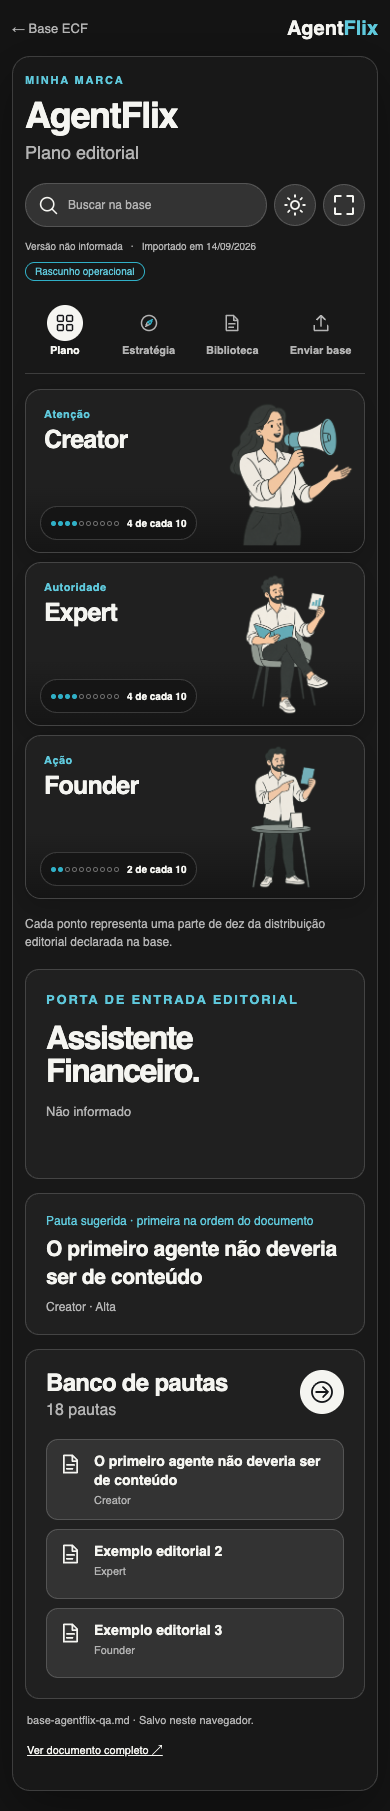
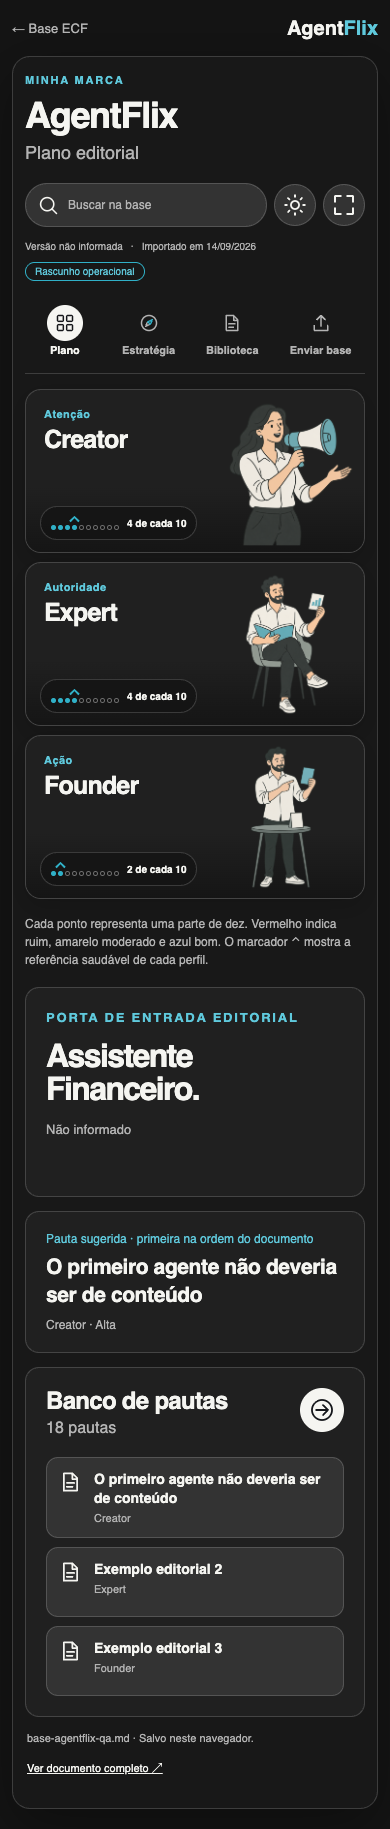
Sinaliza situação dos perfis editoriais

diff --git a/site/assistir/hermes-em-operacao/t1e2/minha-marca.js b/site/assistir/hermes-em-operacao/t1e2/minha-marca.js
@@ -56,6 +56,8 @@
   }
   const labels={plano:'Plano editorial',estrategia:'Estratégia',biblioteca:'Biblioteca'};
   const roles=[['Creator','Atenção','creator'],['Expert','Autoridade','expert'],['Founder','Ação','founder']];
+  const roleTargets={Creator:4,Expert:4,Founder:2};
+  const ratioStates={good:'bom',moderate:'moderado',bad:'ruim'};
   let model=null,raw='',selected=0,roleFilter='',libraryTab='pautas',filename='',importedAt='',uploadSequence=0;
   const view=()=>Object.hasOwn(labels,location.hash.slice(1))?location.hash.slice(1):'plano';
   const fallback=value=>value||'Não informado';
@@ -77,13 +79,16 @@
     const ratio=distribution?.ratio;
     const isRatio=typeof ratio==='number';
     const amount=isRatio?Math.round(ratio*10):null;
+    const target=roleTargets[name];
+    const state=!isRatio?'unknown':amount===target?'good':Math.abs(amount-target)===1?'moderate':'bad';
     const description=mode==='library'?topicCount(name)+' pautas':isRatio?amount+' de cada 10':'Não informado';
-    const bar=mode==='plan'&&isRatio?'<span class="bar" aria-hidden="true">'+Array.from({length:10},(_,i)=>'<i class="'+(i<Math.round(ratio*10)?'filled':'')+'"></i>').join('')+'</span>':'';
-    return '<button class="role-card" type="button" data-role="'+name+'" aria-label="'+name+': '+esc(mode==='plan'?(distribution?.label||'distribuição não informada'):description)+'. Ver pautas"><span class="role-copy"><span class="role-kicker">'+currency+'</span><h2>'+name+'</h2></span><span class="card-icon">'+art(symbol)+'</span><span class="card-tag">'+bar+'<strong>'+description+'</strong></span></button>';
+    const bar=mode==='plan'&&isRatio?'<span class="bar status-'+state+'" aria-hidden="true">'+Array.from({length:10},(_,i)=>'<i class="'+(i<amount?'filled':'')+'">'+(i===target-1?'<b class="ideal-marker">⌃</b>':'')+'</i>').join('')+'</span>':'';
+    const stateLabel=mode==='plan'&&isRatio?' Situação '+ratioStates[state]+'. Referência saudável: '+target+' de cada 10.':'';
+    return '<button class="role-card" type="button" data-role="'+name+'" aria-label="'+name+': '+esc(mode==='plan'?(distribution?.label||'distribuição não informada'):description)+stateLabel+' Ver pautas"><span class="role-copy"><span class="role-kicker">'+currency+'</span><h2>'+name+'</h2></span><span class="card-icon">'+art(symbol)+'</span><span class="card-tag">'+bar+'<strong>'+description+'</strong></span></button>';
   }).join('')+'</div>';}
   function plan(){
     const first=model.topics[0];
-    return roleCards('plan')+'<p class="hint">Cada ponto representa uma parte de dez da distribuição editorial declarada na base.</p><div class="content-grid"><div class="main-stack"><section class="surface entry"><div class="entry-copy"><p class="eyebrow">PORTA DE ENTRADA EDITORIAL</p><h2>'+esc(fallback(model.entry))+'</h2><p>'+esc(fallback(model.transformation))+'</p></div><span class="entry-visual">'+art('entry')+'</span></section><button class="surface suggestion" type="button" data-topic="'+first.id+'"><span>Pauta sugerida · primeira na ordem do documento</span><strong>'+esc(first.title)+'</strong><small>'+esc(first.role)+' · '+esc(fallback(first.priority))+'</small></button></div><section class="dark-panel bank-panel"><div class="bank-heading"><div><h2>Banco de pautas</h2><p>'+model.topics.length+' pautas</p></div><button class="round-action" data-library="pautas" aria-label="Abrir todas as pautas" type="button">'+icon('arrow')+'</button></div><div class="bank-topics">'+model.topics.slice(0,3).map(topic=>'<button class="paper-topic" type="button" data-topic="'+topic.id+'">'+icon('file')+'<span><strong>'+esc(topic.title)+'</strong><small>'+esc(topic.role)+'</small></span></button>').join('')+'</div></section></div>';
+    return roleCards('plan')+'<p class="hint">Cada ponto representa uma parte de dez. Vermelho indica ruim, amarelo moderado e azul bom. O marcador ⌃ mostra a referência saudável de cada perfil.</p><div class="content-grid"><div class="main-stack"><section class="surface entry"><div class="entry-copy"><p class="eyebrow">PORTA DE ENTRADA EDITORIAL</p><h2>'+esc(fallback(model.entry))+'</h2><p>'+esc(fallback(model.transformation))+'</p></div><span class="entry-visual">'+art('entry')+'</span></section><button class="surface suggestion" type="button" data-topic="'+first.id+'"><span>Pauta sugerida · primeira na ordem do documento</span><strong>'+esc(first.title)+'</strong><small>'+esc(first.role)+' · '+esc(fallback(first.priority))+'</small></button></div><section class="dark-panel bank-panel"><div class="bank-heading"><div><h2>Banco de pautas</h2><p>'+model.topics.length+' pautas</p></div><button class="round-action" data-library="pautas" aria-label="Abrir todas as pautas" type="button">'+icon('arrow')+'</button></div><div class="bank-topics">'+model.topics.slice(0,3).map(topic=>'<button class="paper-topic" type="button" data-topic="'+topic.id+'">'+icon('file')+'<span><strong>'+esc(topic.title)+'</strong><small>'+esc(topic.role)+'</small></span></button>').join('')+'</div></section></div>';
   }
   function strategy(){
     const voice=get(model.voice.find(row=>M.key(get(row,'Aspecto'))==='tom'),'Regra operacional');

diff --git a/site/assistir/hermes-em-operacao/t1e2/minha-marca.css b/site/assistir/hermes-em-operacao/t1e2/minha-marca.css
@@ -9,6 +9,9 @@
   --line: rgba(255, 255, 255, .16);
   --accent: #30b0c7;
   --accent-text: #5fc9dc;
+  --status-good: #30b0c7;
+  --status-moderate: #e5bc48;
+  --status-bad: #e35b5b;
   --on-accent: #14161a;
   --shadow: rgba(0, 0, 0, .34);
   font-family: Archivo, Helvetica, Arial, sans-serif;
@@ -90,9 +93,13 @@ button:focus-visible, a:focus-visible, input:focus-visible, summary:focus-visibl
 .card-tag { position: absolute; left: 18px; bottom: 18px; z-index: 3; min-height: 38px; max-width: calc(62% - 18px); padding: 8px 12px; display: inline-flex; align-items: center; gap: 8px; border: 1px solid var(--line); border-radius: 999px; background: rgba(20, 20, 20, .9); color: var(--text); white-space: nowrap; }
 .card-tag strong { font-size: 11px; }
 .card-tag svg { width: 16px; height: 16px; }
-.bar { display: flex; align-items: center; gap: 3px; }
-.bar i { display: block; width: 7px; height: 7px; border: 1px solid #6d6d6d; border-radius: 50%; background: transparent; }
-.bar i.filled { border-color: var(--accent); background: var(--accent); }
+.bar { display: flex; align-items: center; gap: 3px; padding-top: 8px; }
+.bar i { position: relative; display: block; width: 7px; height: 7px; border: 1px solid #6d6d6d; border-radius: 50%; background: transparent; }
+.bar i.filled { border-color: currentColor; background: currentColor; }
+.bar.status-good { color: var(--status-good); }
+.bar.status-moderate { color: var(--status-moderate); }
+.bar.status-bad { color: var(--status-bad); }
+.ideal-marker { position: absolute; top: -12px; left: 50%; display: block; color: currentColor; font-size: 15px; font-style: normal; font-weight: 700; line-height: 1; transform: translateX(-50%); }
 .hint { margin: 4px 0 18px; color: var(--muted); font-size: 12px; line-height: 1.5; }
 
 .content-grid { display: grid; grid-template-columns: minmax(0, 1.65fr) minmax(280px, 1fr); gap: 14px; }

diff --git a/site/assistir/hermes-em-operacao/t1e2/minha-marca.html b/site/assistir/hermes-em-operacao/t1e2/minha-marca.html
@@ -4,14 +4,14 @@
   <meta charset="utf-8">
   <meta name="viewport" content="width=device-width,initial-scale=1">
   <title>Minha marca · AgentFlix</title>
-  <link rel="stylesheet" href="minha-marca.css?v=20260915-7">
+  <link rel="stylesheet" href="minha-marca.css?v=20260915-8">
   <script src="base-editorial-data.js" defer></script>
   <script src="base-editorial-contract.js" defer></script>
   <script src="base-editorial-ecf-scores.js?v=20260914-2" defer></script>
   <script src="base-editorial-bundle.js?v=20260914-2" defer></script>
   <script src="../../../clipboard.js" defer></script>
   <script src="marca-conhecimento-model.js?v=20260915-4" defer></script>
-  <script src="minha-marca.js?v=20260915-4" defer></script>
+  <script src="minha-marca.js?v=20260915-5" defer></script>
 </head>
 <body>
   <a class="skip" href="#workspace">Ir para o conteúdo</a>

diff --git a/tests/test_brand_journey.py b/tests/test_brand_journey.py
@@ -151,3 +151,6 @@ class BrandJourney(unittest.TestCase):
         self.assertIn("art/dashboard/'+name+'.png", script)
         self.assertIn("art('entry')", script)
         self.assertIn('class="card-icon">\'+art(symbol)', script)
+        self.assertIn("const roleTargets={Creator:4,Expert:4,Founder:2}", script)
+        self.assertIn("status-'+state", script)
+        self.assertIn('ideal-marker', script)

diff --git a/reviews/base-dashboard.md b/reviews/base-dashboard.md
@@ -110,3 +110,7 @@ Revisão de 15/09/2026 das visões Plano, Estratégia e Biblioteca. A moldura ma
 Os SVGs continuam nos controles funcionais, onde garantem precisão em busca, navegação, estado e ações. As sete ilustrações semânticas grandes foram substituídas por PNGs editoriais gerados para Creator, Expert, Founder, Público, Posicionamento, Voz e Porta de entrada. Founder mantém personagem masculino. Os arquivos têm canal RGBA e pixels totalmente transparentes; foram aplicados sem remoção de fundo por script. Prompts e critérios de validação estão em `site/assistir/hermes-em-operacao/t1e2/art/dashboard/prompts.json`.
 
 A distribuição passou a combinar dez pontos com a leitura explícita “4 de cada 10”, em vez de depender de uma barra e de porcentagem isoladas. Em Estratégia, descrições longas são limitadas visualmente a três linhas sem alterar o conteúdo acessível. Em Biblioteca, a seleção recebe marca lateral ciano e as linhas preservam contraste e hierarquia no mesmo vocabulário visual das demais telas.
+
+## Situação da distribuição editorial
+
+Creator, Expert e Founder usam a referência saudável de 4, 4 e 2 pontos, respectivamente. Os pontos preenchidos agora mostram a situação de cada perfil: azul quando o valor coincide com a referência, amarelo quando está a um ponto e vermelho quando se distancia dois ou mais. O marcador `⌃` fica sobre o ponto ideal, e o rótulo acessível informa situação e referência sem depender somente da cor.
